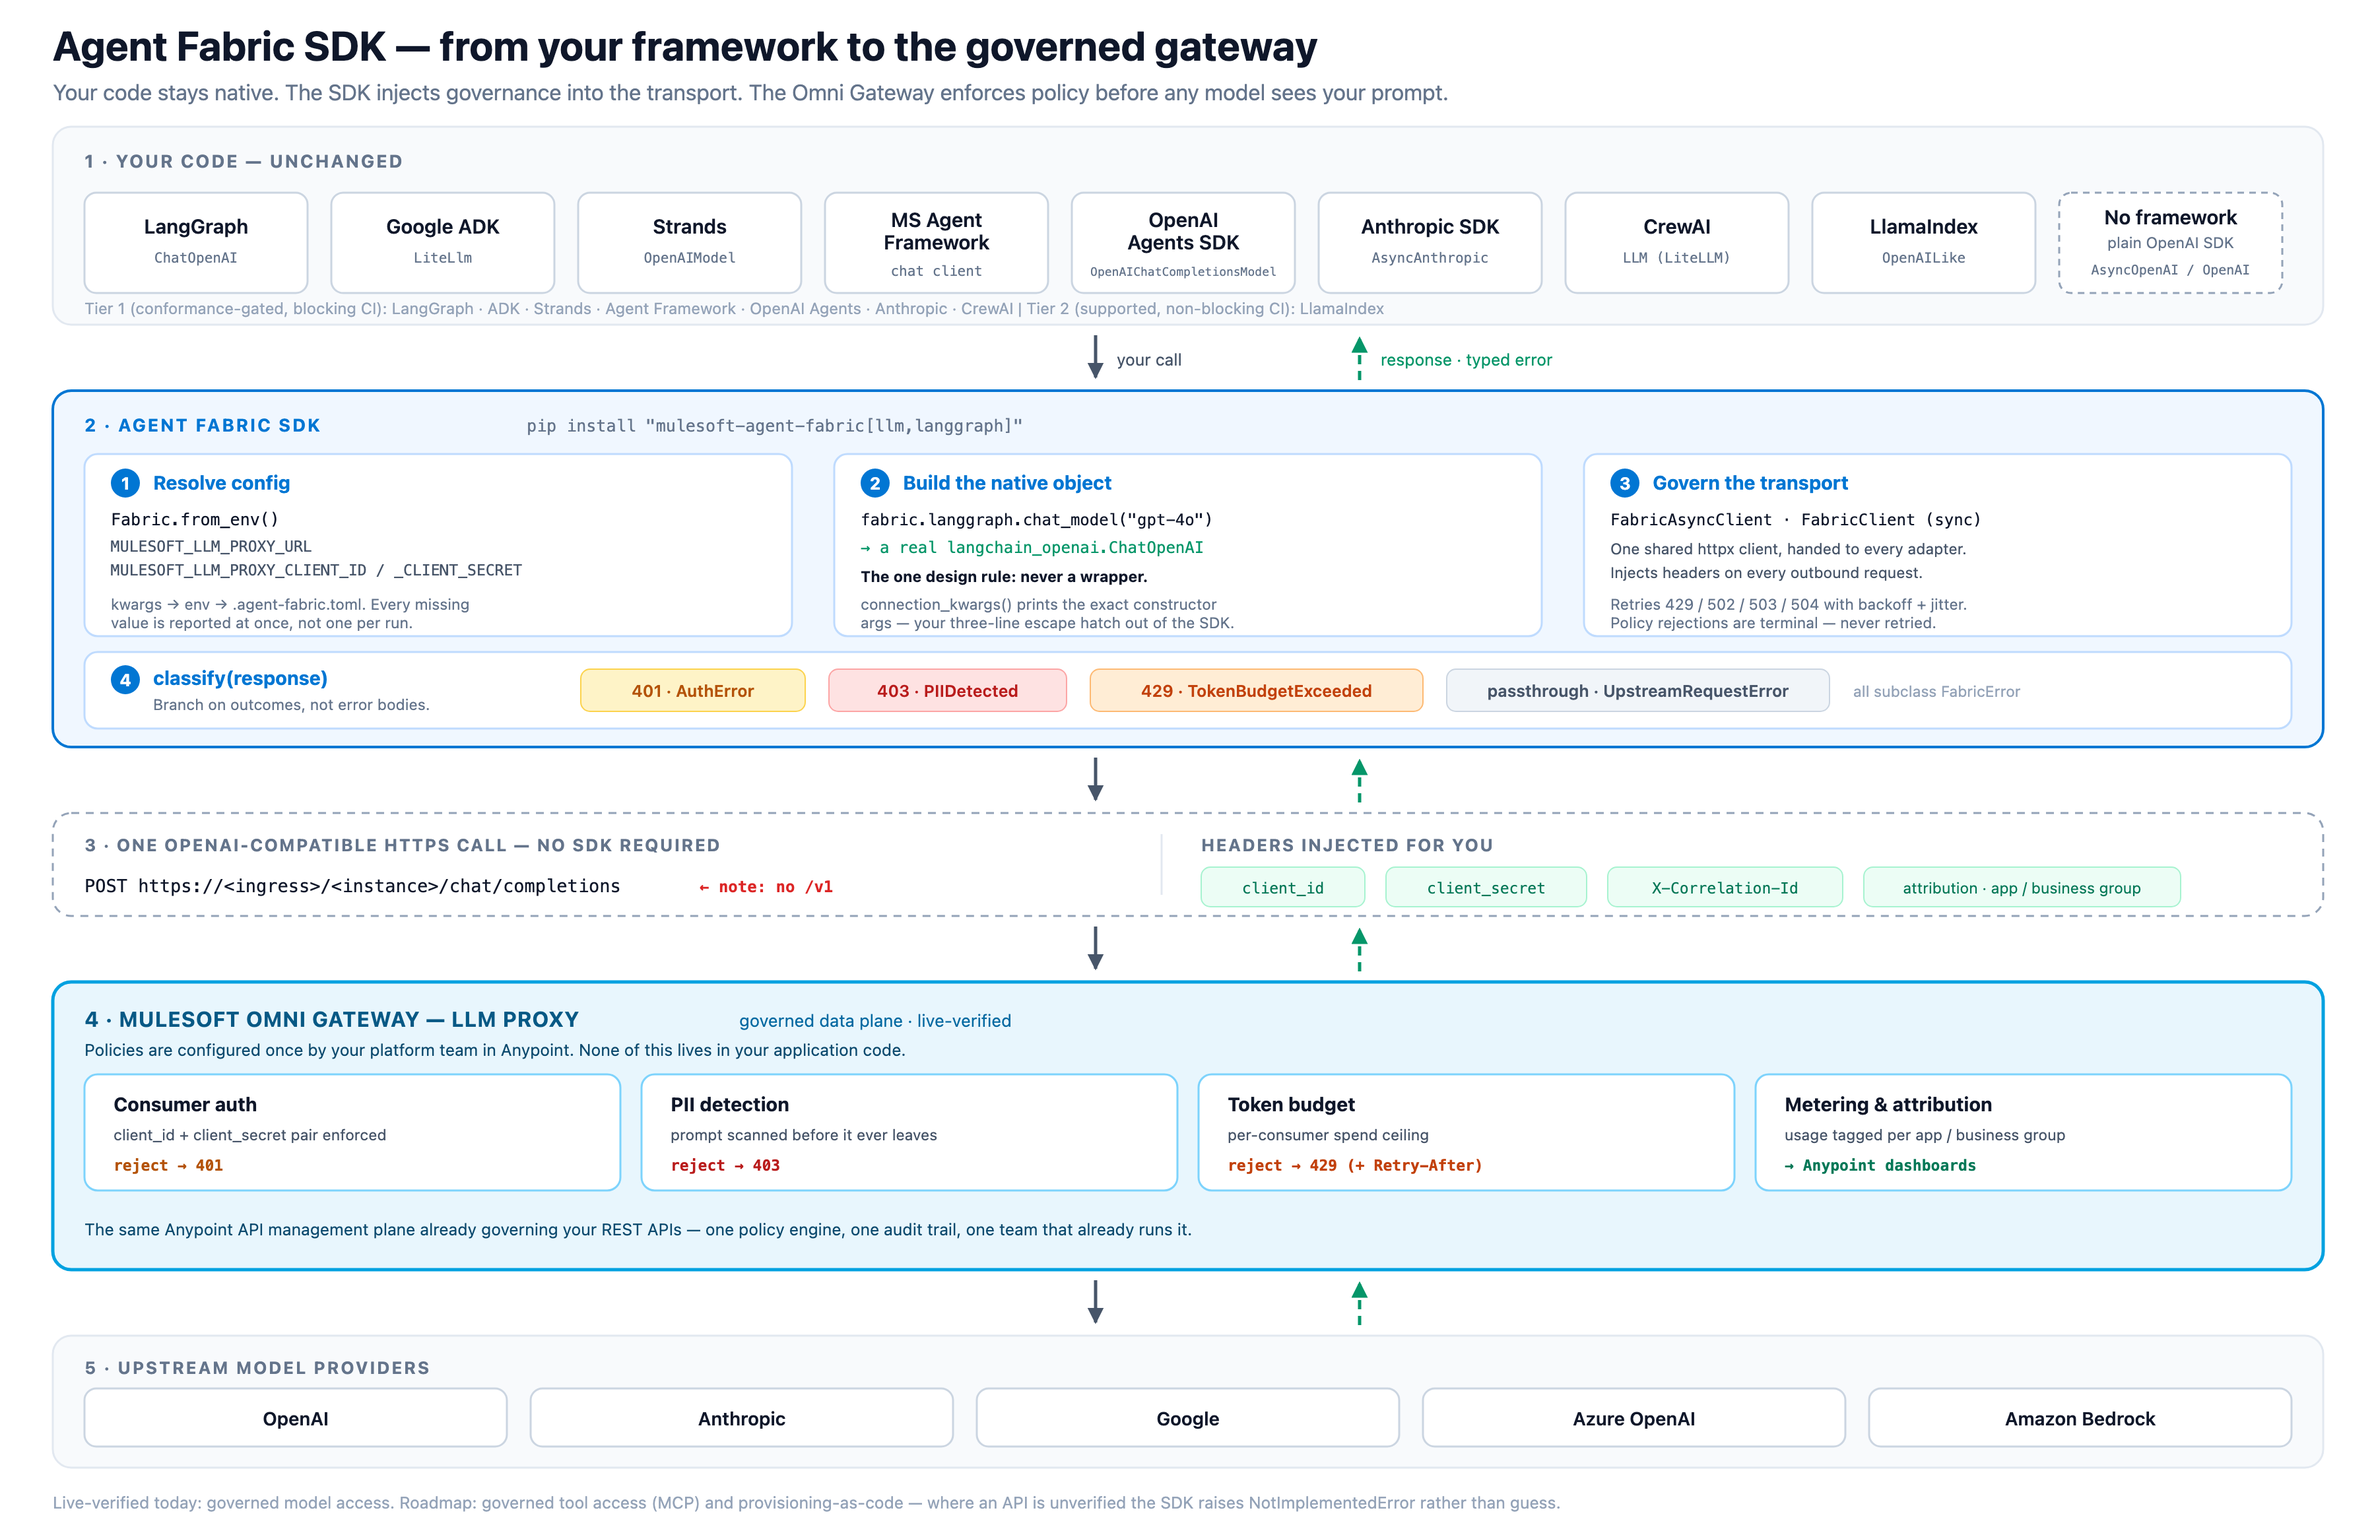
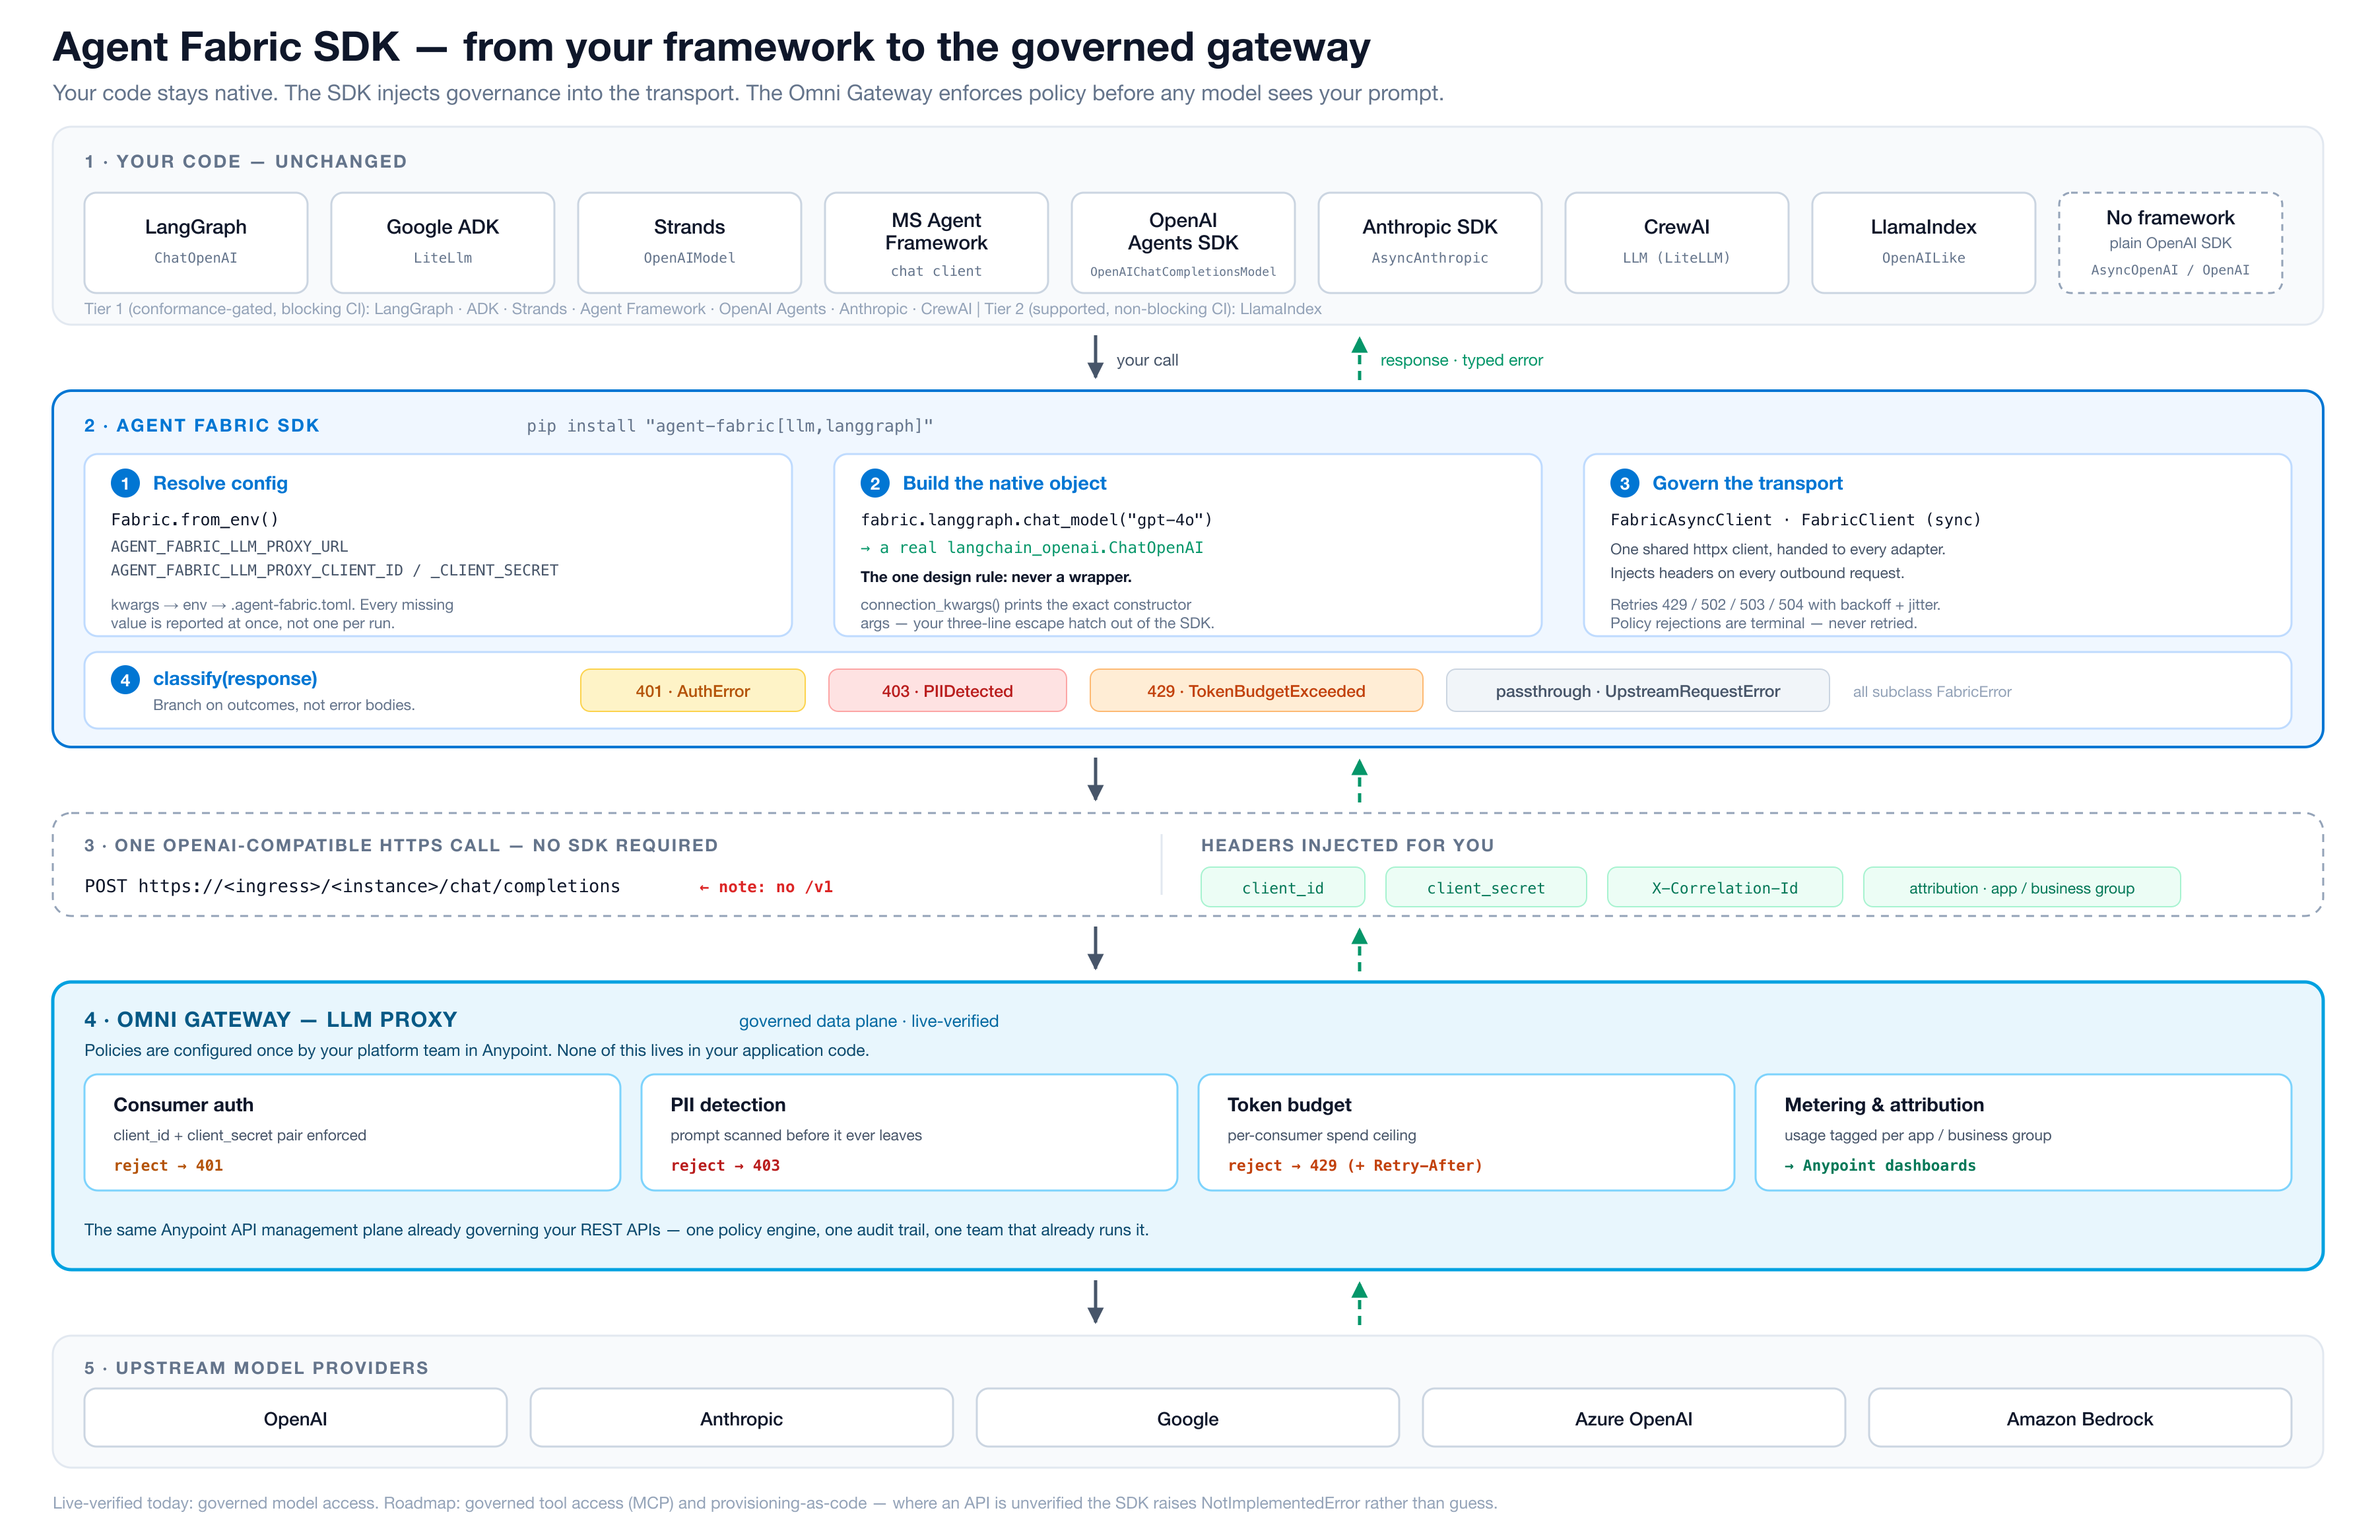
docs: add ARCHITECTURE.md and wire the SDK diagram (#148)
Adds a contributor-facing ARCHITECTURE.md at the repo root — the "how it's
built" story that previously lived only in CLAUDE.md, the build plan, and
.claude/skills/. Four sections, seeded from CLAUDE.md "How the pieces connect"
+ build-plan §1, citing symbols not path:line (per afdk-docs-authoring):

- Layered architecture (§1.1): the integrations -> tools -> registry -> llm ->
  core stack, the framework-free-core / import-linter hard rule, and how Fabric
  wires one shared FabricAsyncClient into lazy per-framework adapters.
- Verification discipline (§0.3): _verify.blocked(...) vs Unverified(...), how a
  row flips to VERIFIED (docs/verified-apis.md + verified=True together).
- Error-taxonomy design (§2.4): PolicyViolation never retried; every error
  carries remediation; classify() is fixture-driven, discriminating on error
  `type` + headers, not status alone.
- Framework tiering (§1.4): Tier-1 blocking vs Tier-2 non-blocking CI, and the
  conformance kit's "asserted exemption, never a silent skip" rule.

Wires the previously-orphaned sdk-architecture diagram by embedding the .png.
The .svg on develop was already rebranded, but its rasterized .png predated
#159 and still showed `mulesoft-agent-fabric` / `MULESOFT_LLM_PROXY_*`;
re-rendered the .png from the current .svg (rsvg-convert, 2x = 3600x2320) so
the embedded asset matches the rebrand instead of reverting it.

Closes #148.

diff --git a/ARCHITECTURE.md b/ARCHITECTURE.md
@@ -1,0 +1,201 @@
+# Architecture
+
+This document is the contributor-facing map of how the SDK is built — the layer
+boundaries, the design invariants, and the discipline that keeps the package
+trustworthy. It is a distillation, not the spec: the authoritative specification
+is [`agent-fabric-sdk-build-plan.md`](agent-fabric-sdk-build-plan.md), and every
+`§N.N` reference below points into it. When a rule here feels arbitrary, read the
+cited section — the constraints are deliberate.
+
+For *using* the SDK, see the consumer docs site (`docs-site/`). For *working in*
+the repo — branch/PR flow, testing surfaces, coding conventions — see
+[`CONTRIBUTING.md`](CONTRIBUTING.md).
+
+![Agent Fabric SDK — from your framework, through the SDK's config/native-object/transport/classify stages, to the governed Omni Gateway and upstream model providers.](docs-site/public/img/sdk-architecture.png)
+
+The SDK is a thin, framework-native client for a **governed gateway**. Your agent
+code stays in whatever framework you already use; the SDK's only job is to build
+that framework's *own* native client object, inject governance and attribution
+headers into the transport, and turn the gateway's policy rejections into typed,
+actionable errors. The gateway — not the SDK — enforces policy.
+
+---
+
+## Layered architecture (§1.1)
+
+The package is a strict stack. Higher layers depend on lower layers; **no lower
+layer may import a higher one.**
+
+```
+integrations/   per-framework adapters — return NATIVE framework objects, never wrappers
+      ↓         (langgraph · adk · strands · agent_framework · openai · crewai · anthropic · llamaindex)
+tools/          MCP session management, tool discovery/filtering — resolves registry handles
+      ↓
+registry/       Exchange discovery, typed governed-state assets
+      ↓
+llm/            framework-free OpenAI-compatible client factory + model catalog
+      ↓
+core/           config · auth · transport · errors · telemetry · region  — ZERO framework deps (httpx + pydantic only)
+
+provisioning/   separate, CI-oriented entry point: declarative specs · plan/diff/apply · governance lint · CLI
+```
+
+**The hard rule (§1.1):** `core/` has no dependency on any agent framework.
+Each `integrations/*` adapter may depend on exactly one framework, and nothing
+in `integrations/` may be imported by `core`, `llm`, `registry`, or `tools`.
+This is enforced in CI by `import-linter` (`lint-imports`); a violating import
+fails the build. The `base-only` CI job additionally installs *only* the base
+package and imports `agent_fabric` to catch an accidental top-level framework
+import leaking into a lower layer.
+
+Because of that rule, adapters import their framework **lazily, inside methods** —
+never at module top level — so importing the base package never drags in a
+framework that may not be installed.
+
+### How the pieces connect
+
+- **`Fabric`** is the public surface and orchestrator. It owns one shared
+  **`FabricAsyncClient`** (an `httpx.AsyncClient` subclass that injects the
+  governance/attribution headers) and hands that single client to the LLM
+  client, the registry, and every adapter — so there is exactly one transport and
+  one header-injection point.
+- **Adapters are lazy attributes.** `Fabric.__getattr__` resolves
+  `fabric.<framework>` on first access through the `ADAPTERS` registry declared
+  in `integrations/__init__.py`. Accessing an adapter whose optional extra is not
+  installed raises an `ImportError` carrying the exact `pip install` command —
+  never a bare `ModuleNotFoundError`. Each adapter returns the framework's own
+  object (e.g. a real `langchain_openai.ChatOpenAI`), so there is nothing to
+  unlearn and a three-line escape hatch (`connection_kwargs()`) out of the SDK.
+- **Configuration** resolves in a fixed precedence — constructor kwargs → env
+  vars → `.agent-fabric.toml` → default (§2.1) — and reports every missing field
+  at once rather than one failure per run. `Fabric.from_env()` is the entry point.
+
+Every governed surface ships in three ergonomic forms that must stay in lockstep:
+the `fabric.<framework>` factory, a `connection_kwargs()` accessor, and a
+module-level factory.
+
+---
+
+## Verification discipline (§0.3)
+
+This is the SDK's most distinctive principle and its strongest trust guarantee.
+
+> **Never invent an endpoint, header name, or class name.**
+
+A fabricated endpoint that 404s in a customer sandbox destroys confidence in the
+whole package, so the codebase makes fabrication structurally hard. `core/_verify.py`
+is the single home for every value that §0.3 says must be confirmed against a real
+Anypoint sandbox before it can be trusted, and it offers exactly two mechanisms:
+
+- **`blocked("…")`** returns a `NotImplementedError("blocked on verification: …")`.
+  It is used where there is no defensible placeholder at all — e.g. the MCP-bridge
+  tool-discovery and the provisioning control-plane endpoints. The SDK raises
+  rather than guesses. **Do not replace a `blocked(...)` guard with a guess.**
+- **`Unverified(...)`** placeholder constants hold a documented best-guess that is
+  fully overridable via config/env, and emit a one-time `UnverifiedValueWarning`
+  the first time they are read — so a value can be *used* without ever being
+  *mistaken for confirmed*. A customer can point it at the real value immediately;
+  we don't block them waiting on our own verification.
+
+**How a value flips to verified.** When a value is confirmed against a sandbox,
+two edits move together, never apart: flip its row in
+[`docs/verified-apis.md`](docs/verified-apis.md) to `VERIFIED`, **and** set
+`verified=True` on its `Unverified(...)` entry in `core/_verify.py` so the warning
+stops firing. `docs/verified-apis.md` is the single source of truth for what is
+verified and the worklist of what is still blocked.
+
+What is verified today: the LLM-proxy data plane (its base-URL shape — note there
+is **no `/v1`** — the `client_id`/`client_secret` request-header pair, streaming,
+and the live rejection shapes), the OAuth2 control-plane token path, and the
+CLI-plugin REST contract (from static analysis). Still blocked: Exchange→MCP tool
+discovery, the provisioning control plane, and the exact framework-adapter class
+names/kwargs (§8–§10).
+
+---
+
+## Error-taxonomy design (§2.4)
+
+Turning the gateway's policy rejections into catchable, actionable exceptions is
+the SDK's clearest value over raw HTTP. Two invariants govern the taxonomy in
+`core/errors.py`:
+
+1. **A policy refusal is never retried.** `PolicyViolation` (and its subclasses —
+   `TokenBudgetExceeded`, `PIIDetected`, `PromptInjectionBlocked`,
+   `ContentSafetyBlocked`) must be distinguishable from a transient error at the
+   framework boundary, so a host framework never silently retries a governance
+   refusal. The transport treats these as terminal.
+2. **Every error carries a `remediation`.** On `PolicyViolation` the human-readable
+   next step is a *required* field — the concrete action to take (e.g. "the budget
+   window resets in 42m; request an increase in API Manager") is worth more than a
+   stack trace.
+
+**`classify()` is fixture-driven, not guessed.** The HTTP-response → exception
+mapping in `classify()` is populated from real rejection captures taken against a
+live governed proxy (§8.2), not hand-written assumptions. The authoritative
+discriminator is the error **`type`** plus specific headers — **not the status
+code alone.** The captures established, for example, that:
+
+- A **PII** block is a **403** with a *nested* error object whose `type` is
+  `"pii_detected"` and **no** `www-authenticate` header — so it is decided *before*
+  the generic 401/403→auth rule (`AuthError`). A 403 is not automatically an auth
+  error.
+- A **token-budget** rejection is a **429** with an *empty body*; the budget state
+  lives entirely in headers (`x-token-reset` in ms), with no standard `retry-after`
+  → `TokenBudgetExceeded`.
+- An **upstream provider** rejection (e.g. OpenAI `model_not_found`) is a non-429
+  4xx carrying the provider's nested `code`/`type`/`param`, passed through
+  verbatim → `UpstreamRequestError` (terminal, but distinct from a policy refusal).
+- A **5xx** is a retryable provider outage → `UpstreamModelError`.
+
+Policies not yet observed live (prompt-injection, content-safety) deliberately
+fall through to a generic `PolicyViolation` whose message *says so* rather than
+pretending to a precision the captures don't yet support — the same §0.3 honesty
+as the verification ledger. All errors subclass `FabricError`, which carries the
+correlation/request IDs and the raw response for inspection.
+
+---
+
+## Framework tiering (§1.4)
+
+Not every framework gets the same CI guarantee, and the roster is deliberately
+scoped rather than exhaustive.
+
+- **Tier 1 — full support, conformance-gated, *blocking* CI:** LangGraph,
+  Google ADK, Strands, Microsoft Agent Framework, OpenAI Agents SDK, Anthropic
+  SDK, CrewAI.
+- **Tier 2 — supported, conformance-gated, *non-blocking* CI:** LlamaIndex.
+- **Tier 3:** none. AutoGen and Semantic Kernel are intentionally out of scope —
+  Microsoft positions Agent Framework as their direct successor, so carrying all
+  three would mean shipping two sunset-path adapters.
+
+**Conformance is how "supported" is proven, not asserted.** One suite
+(`python/tests/conformance/suite.py`) runs identically against every adapter. A
+framework is "supported" only when it passes every scenario **or** records an
+*asserted exemption* in `KNOWN_LIMITATIONS` — never a silent skip. Those
+exemptions are published in the README as credibility (e.g. adapters that reach
+models through LiteLLM cannot propagate a per-run correlation ID, because LiteLLM
+owns the transport). Tier-1 conformance blocks CI; Tier-2 (LlamaIndex) runs
+non-blocking.
+
+Two Tier-1 targets carry documented conformance exemptions rather than a lower
+tier: CrewAI (per-run correlation degrades to per-client because it reaches models
+through LiteLLM, like ADK) and the Anthropic SDK (depends on the proxy exposing an
+Anthropic-native Messages API route, an open verification item, §0.3).
+
+---
+
+## Related documents
+
+- [`agent-fabric-sdk-build-plan.md`](agent-fabric-sdk-build-plan.md) — the
+  authoritative specification; every `§N.N` here points into it.
+- [`docs/verified-apis.md`](docs/verified-apis.md) — the §0.3 verification ledger
+  (source of truth for what is verified vs. blocked).
+- [`CONTRIBUTING.md`](CONTRIBUTING.md) — branch/PR/release flow, testing surfaces,
+  coding conventions.
+- `docs-site/` — the consumer "how to use the SDK" documentation.
+
+---
+
+*"Agent Fabric", "Anypoint", and "Omni Gateway" are Salesforce trademarks; this
+project is a descriptive, non-first-party SDK for consuming those capabilities
+(§0.4).*
